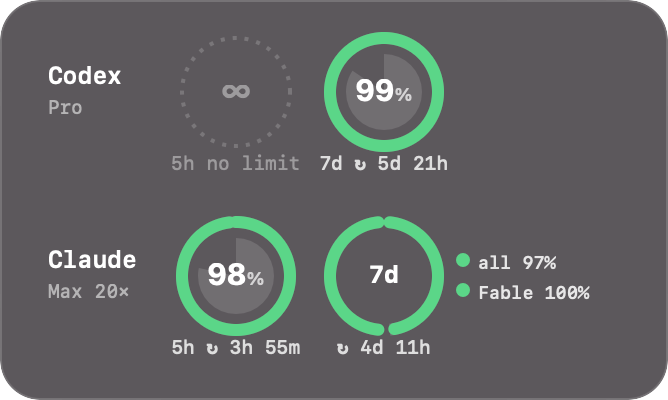
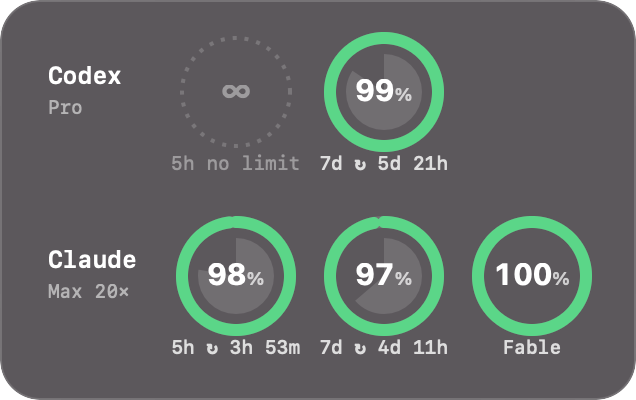
Revert weekly to separate dials (5h / 7d / Fable each its own ring)
The segmented weekly ring didn't look good; go back to one clean full ring per
window. 7d aligns across providers; per-model weeklies (Fable/Opus) append as
their own dials on the provider that has them.

diff --git a/bin/usage-hud.swift b/bin/usage-hud.swift
@@ -125,24 +125,23 @@ final class DialView: NSView {
     // behave normally — arcs sweep clockwise from the top as expected.
     override var isFlipped: Bool { false }
 
-    // Layout: a 5h column (aligned; placeholder if a provider lacks it), then a
-    // single "weekly" column. All 7d* limits (all-models + per-model Opus/
-    // Sonnet/Fable) are drawn as ONE segmented ring — each model an arc segment,
-    // with a legend on the right. A lone weekly falls back to a plain ring.
-    let legendW: CGFloat = 92
-    var weeklyCellW: CGFloat { dialR * 2 + 12 + legendW }
+    // One dial per window. 5h and 7d (all-models) get fixed, aligned columns
+    // across providers — a provider missing one shows a placeholder. Per-model
+    // weeklies (7d Opus/Sonnet/Fable) are appended after, per provider, with no
+    // cross-provider placeholder (Codex has no "Fable", so don't fake one).
+    let alignedOrder = ["5h", "7d"]
 
-    func has5h() -> Bool { providers.contains { $0.windows.contains { $0.label == "5h" } } }
-    func weeklies(_ p: Provider) -> [Win] {
-        p.windows
-            .filter { $0.label == "7d" || $0.label.hasPrefix("7d ") }
-            .sorted { ($0.label == "7d" ? 0 : 1) < ($1.label == "7d" ? 0 : 1) }
+    func alignedCols() -> [String] {
+        alignedOrder.filter { lbl in providers.contains { $0.windows.contains { $0.label == lbl } } }
+    }
+    func maxExtra() -> Int {
+        let aligned = Set(alignedCols())
+        return providers.map { p in p.windows.filter { !aligned.contains($0.label) }.count }.max() ?? 0
     }
 
     func contentSize() -> NSSize {
-        let anyMulti = providers.contains { weeklies($0).count > 1 }
-        let wkW = anyMulti ? weeklyCellW : cellW
-        let w = nameW + (has5h() ? cellW : 0) + wkW + PAD
+        let ncols = max(1, alignedCols().count + maxExtra())
+        let w = nameW + CGFloat(ncols) * cellW + PAD
         let h = CGFloat(providers.count) * (cellH + rowGap)
         return NSSize(width: max(240, w), height: max(80, h))
     }
@@ -164,7 +163,8 @@ final class DialView: NSView {
             .foregroundColor: NSColor(white: 1, alpha: 0.55),
         ]
 
-        let show5h = has5h()
+        let aligned = alignedCols()
+        let alignedSet = Set(aligned)
         var rowTop = bounds.height - rowGap / 2   // top of the first row
         for p in providers {
             let cy = rowTop - dialR                // vertical center of this row's dials
@@ -187,17 +187,20 @@ final class DialView: NSView {
                 options: [.usesLineFragmentOrigin], attributes: rowSubAttr)
 
             var x = PAD + nameW
-            // 5h column (aligned; placeholder if this provider has no 5h limit).
-            if show5h {
-                if let w = p.windows.first(where: { $0.label == "5h" }) {
+            // Aligned columns (5h, 7d), placeholder if missing.
+            for col in aligned {
+                if let w = p.windows.first(where: { $0.label == col }) {
                     drawDial(cx: x + dialR, cy: cy, w: w, now: now)
                 } else {
-                    drawPlaceholder(cx: x + dialR, cy: cy, label: "5h")
+                    drawPlaceholder(cx: x + dialR, cy: cy, label: col)
                 }
                 x += cellW
             }
-            // Weekly column: all 7d* limits in one segmented ring (+ legend).
-            drawWeekly(cx: x + dialR, cy: cy, wks: weeklies(p), now: now)
+            // Per-model weeklies (Opus/Sonnet/Fable), appended as their own dials.
+            for w in p.windows where !alignedSet.contains(w.label) {
+                drawDial(cx: x + dialR, cy: cy, w: w, now: now)
+                x += cellW
+            }
             _ = subAttr
             rowTop -= (cellH + rowGap)
         }
@@ -277,77 +280,6 @@ final class DialView: NSView {
         ]
         let sz = sub.size(withAttributes: subAttr)
         sub.draw(at: NSPoint(x: cx - sz.width / 2, y: cy - dialR - 12), withAttributes: subAttr)
-    }
-
-    // Weekly limits as ONE dial. A single weekly = a plain ring. Multiple
-    // (all-models + Fable/Opus/…) = a segmented ring: each model an arc segment
-    // filled by its remaining %, with a color-keyed legend on the right.
-    func drawWeekly(cx: CGFloat, cy: CGFloat, wks: [Win], now: Double) {
-        guard !wks.isEmpty else { return }
-        if wks.count == 1 { drawDial(cx: cx, cy: cy, w: wks[0], now: now); return }
-
-        let center = NSPoint(x: cx, y: cy)
-        let outerR = dialR - ringW / 2
-        let n = CGFloat(wks.count)
-        let gapDeg: CGFloat = 12
-        let segDeg = (360 - gapDeg * n) / n
-        // Center a gap at the top (12 o'clock) so 2 segments read as clean
-        // left/right halves (gaps at top & bottom), not a rotated split.
-        var start: CGFloat = 90 - gapDeg / 2
-        for w in wks {
-            let track = NSBezierPath()
-            track.appendArc(withCenter: center, radius: outerR, startAngle: start, endAngle: start - segDeg, clockwise: true)
-            NSColor(white: 1, alpha: 0.14).setStroke()
-            track.lineWidth = ringW
-            track.stroke()
-            let f = max(0, min(1, w.leftPercent / 100))
-            if f > 0 {
-                let a = NSBezierPath()
-                a.appendArc(withCenter: center, radius: outerR, startAngle: start, endAngle: start - segDeg * f, clockwise: true)
-                color(w.leftPercent).setStroke()
-                a.lineWidth = ringW
-                a.lineCapStyle = .round
-                a.stroke()
-            }
-            start -= (segDeg + gapDeg)
-        }
-
-        // Center "7d"
-        let lab = "7d" as NSString
-        let labAttr: [NSAttributedString.Key: Any] = [
-            .font: NSFont.monospacedSystemFont(ofSize: 12, weight: .bold),
-            .foregroundColor: NSColor.white,
-        ]
-        let lsz = lab.size(withAttributes: labAttr)
-        lab.draw(at: NSPoint(x: cx - lsz.width / 2, y: cy - lsz.height / 2 + 1), withAttributes: labAttr)
-
-        // Under: the shared weekly reset (all-models = first)
-        let cd = countdownString(wks.first?.resetsAt)
-        if !cd.isEmpty {
-            let u = "↻ \(cd)" as NSString
-            let uAttr: [NSAttributedString.Key: Any] = [
-                .font: NSFont.monospacedSystemFont(ofSize: 9.5, weight: .medium),
-                .foregroundColor: NSColor(white: 1, alpha: 0.8),
-            ]
-            let usz = u.size(withAttributes: uAttr)
-            u.draw(at: NSPoint(x: cx - usz.width / 2, y: cy - dialR - 12), withAttributes: uAttr)
-        }
-
-        // Legend on the right, color-keyed to each segment.
-        let legAttr: [NSAttributedString.Key: Any] = [
-            .font: NSFont.monospacedSystemFont(ofSize: 9, weight: .medium),
-            .foregroundColor: NSColor(white: 1, alpha: 0.85),
-        ]
-        var ly = cy + (n - 1) * 7.5 - 3
-        for w in wks {
-            let name = w.label == "7d" ? "all" : String(w.label.dropFirst(3))
-            let dot = NSBezierPath(ovalIn: NSRect(x: cx + dialR + 6, y: ly, width: 7, height: 7))
-            color(w.leftPercent).setFill()
-            dot.fill()
-            ("\(name) \(Int(w.leftPercent.rounded()))%" as NSString)
-                .draw(at: NSPoint(x: cx + dialR + 17, y: ly - 3), withAttributes: legAttr)
-            ly -= 15
-        }
     }
 
     // Placeholder for a window a provider doesn't have (e.g. Codex has no 5h
